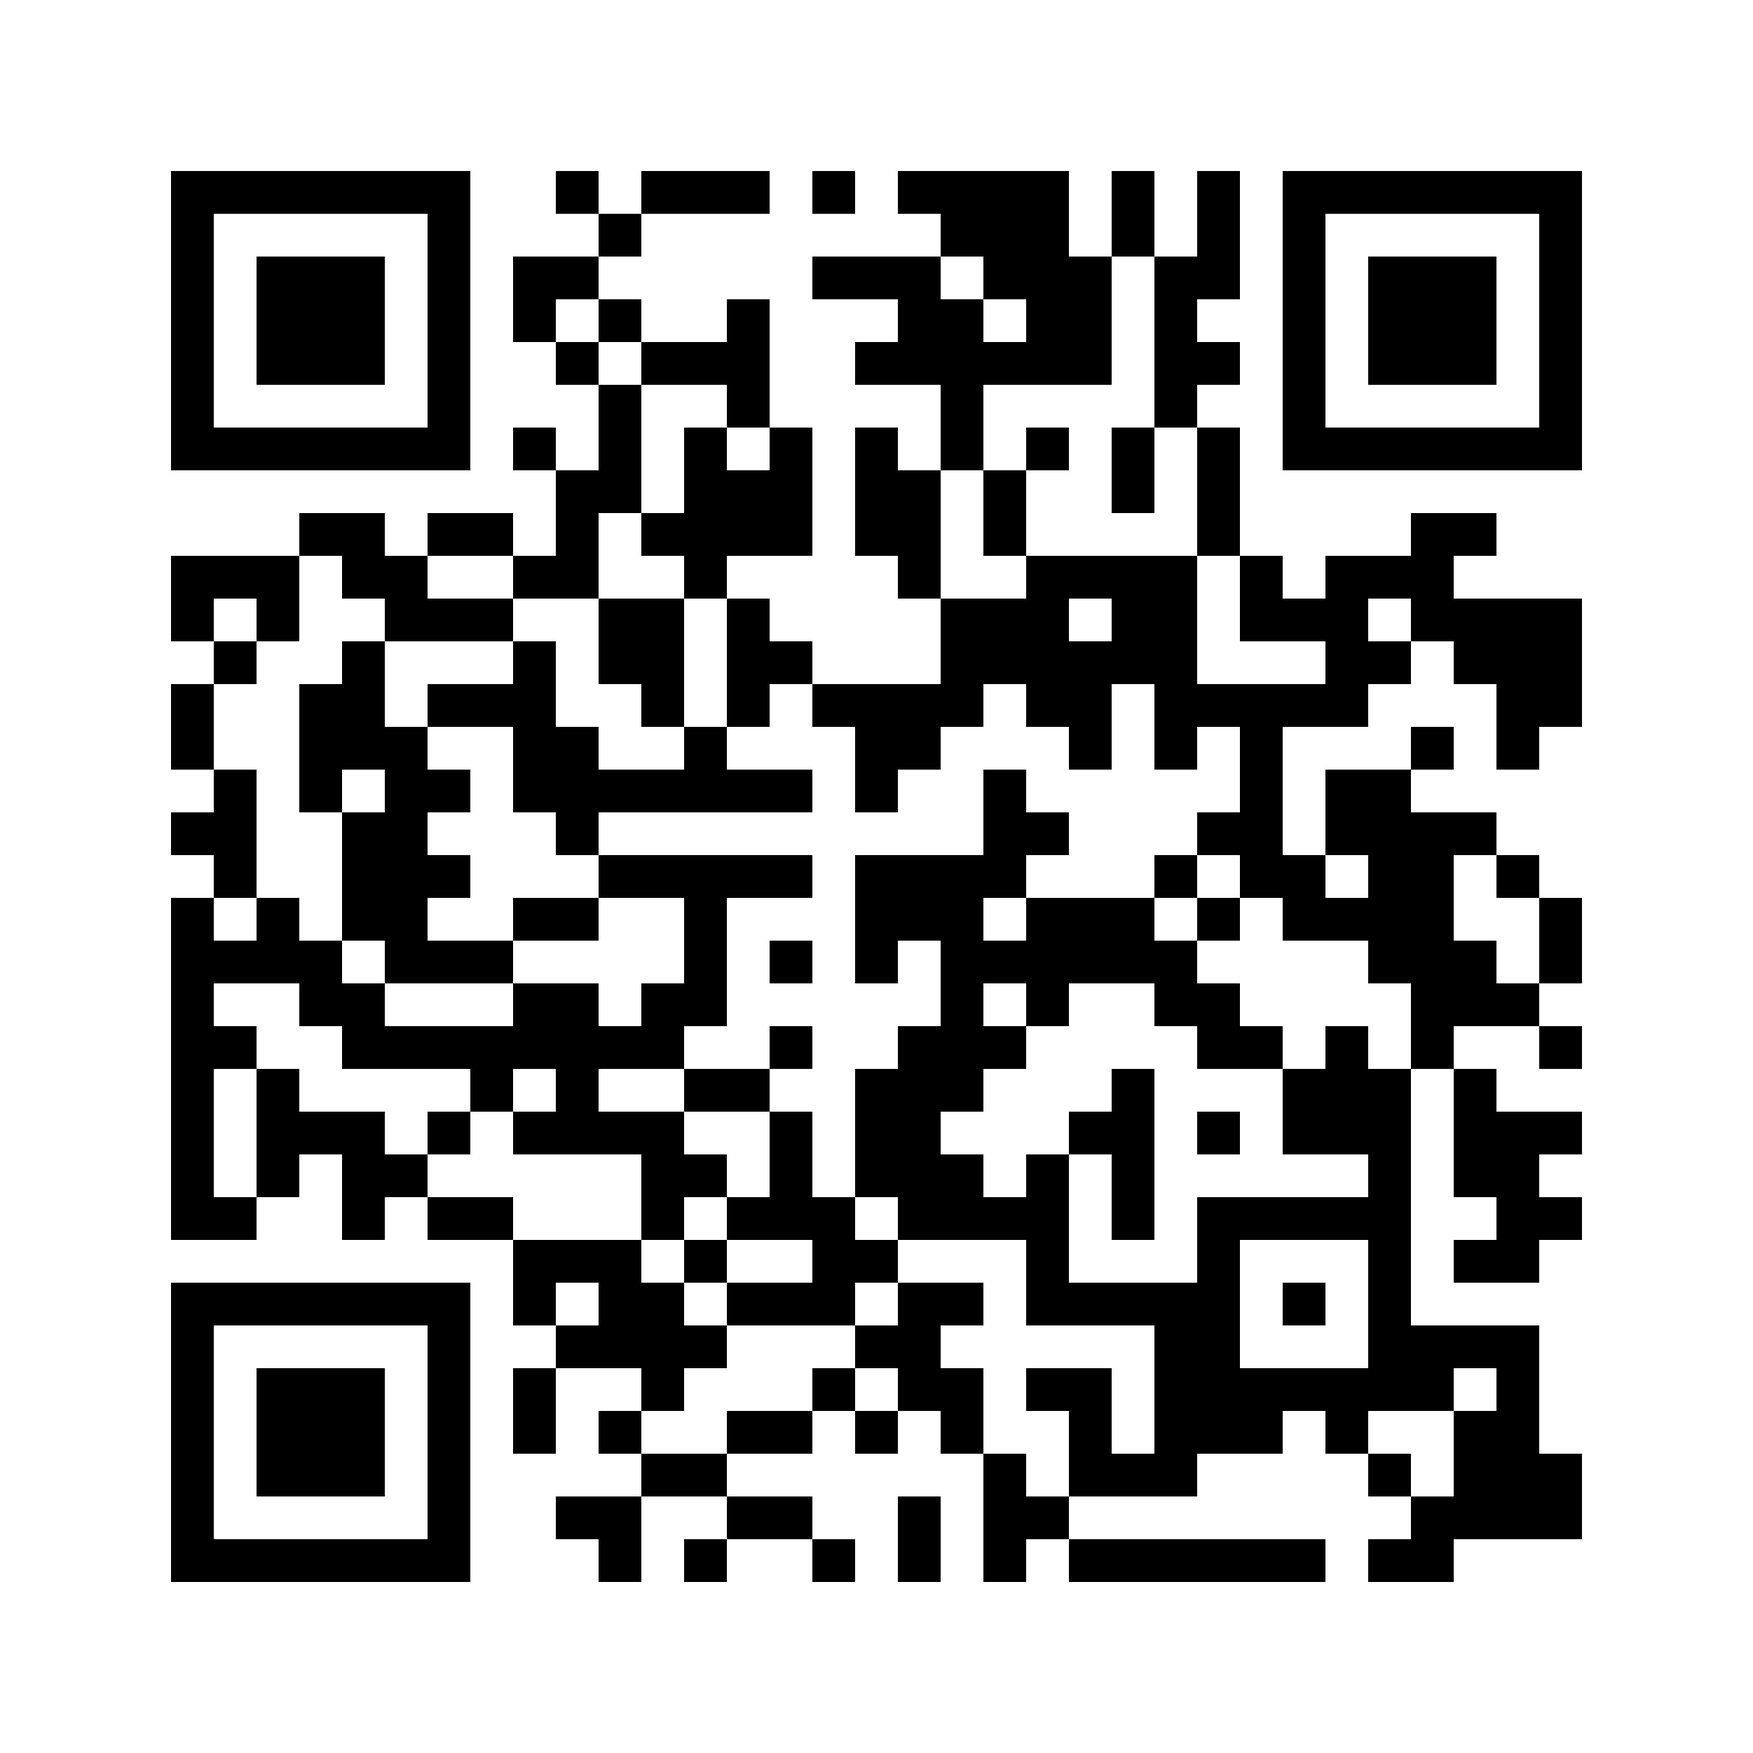
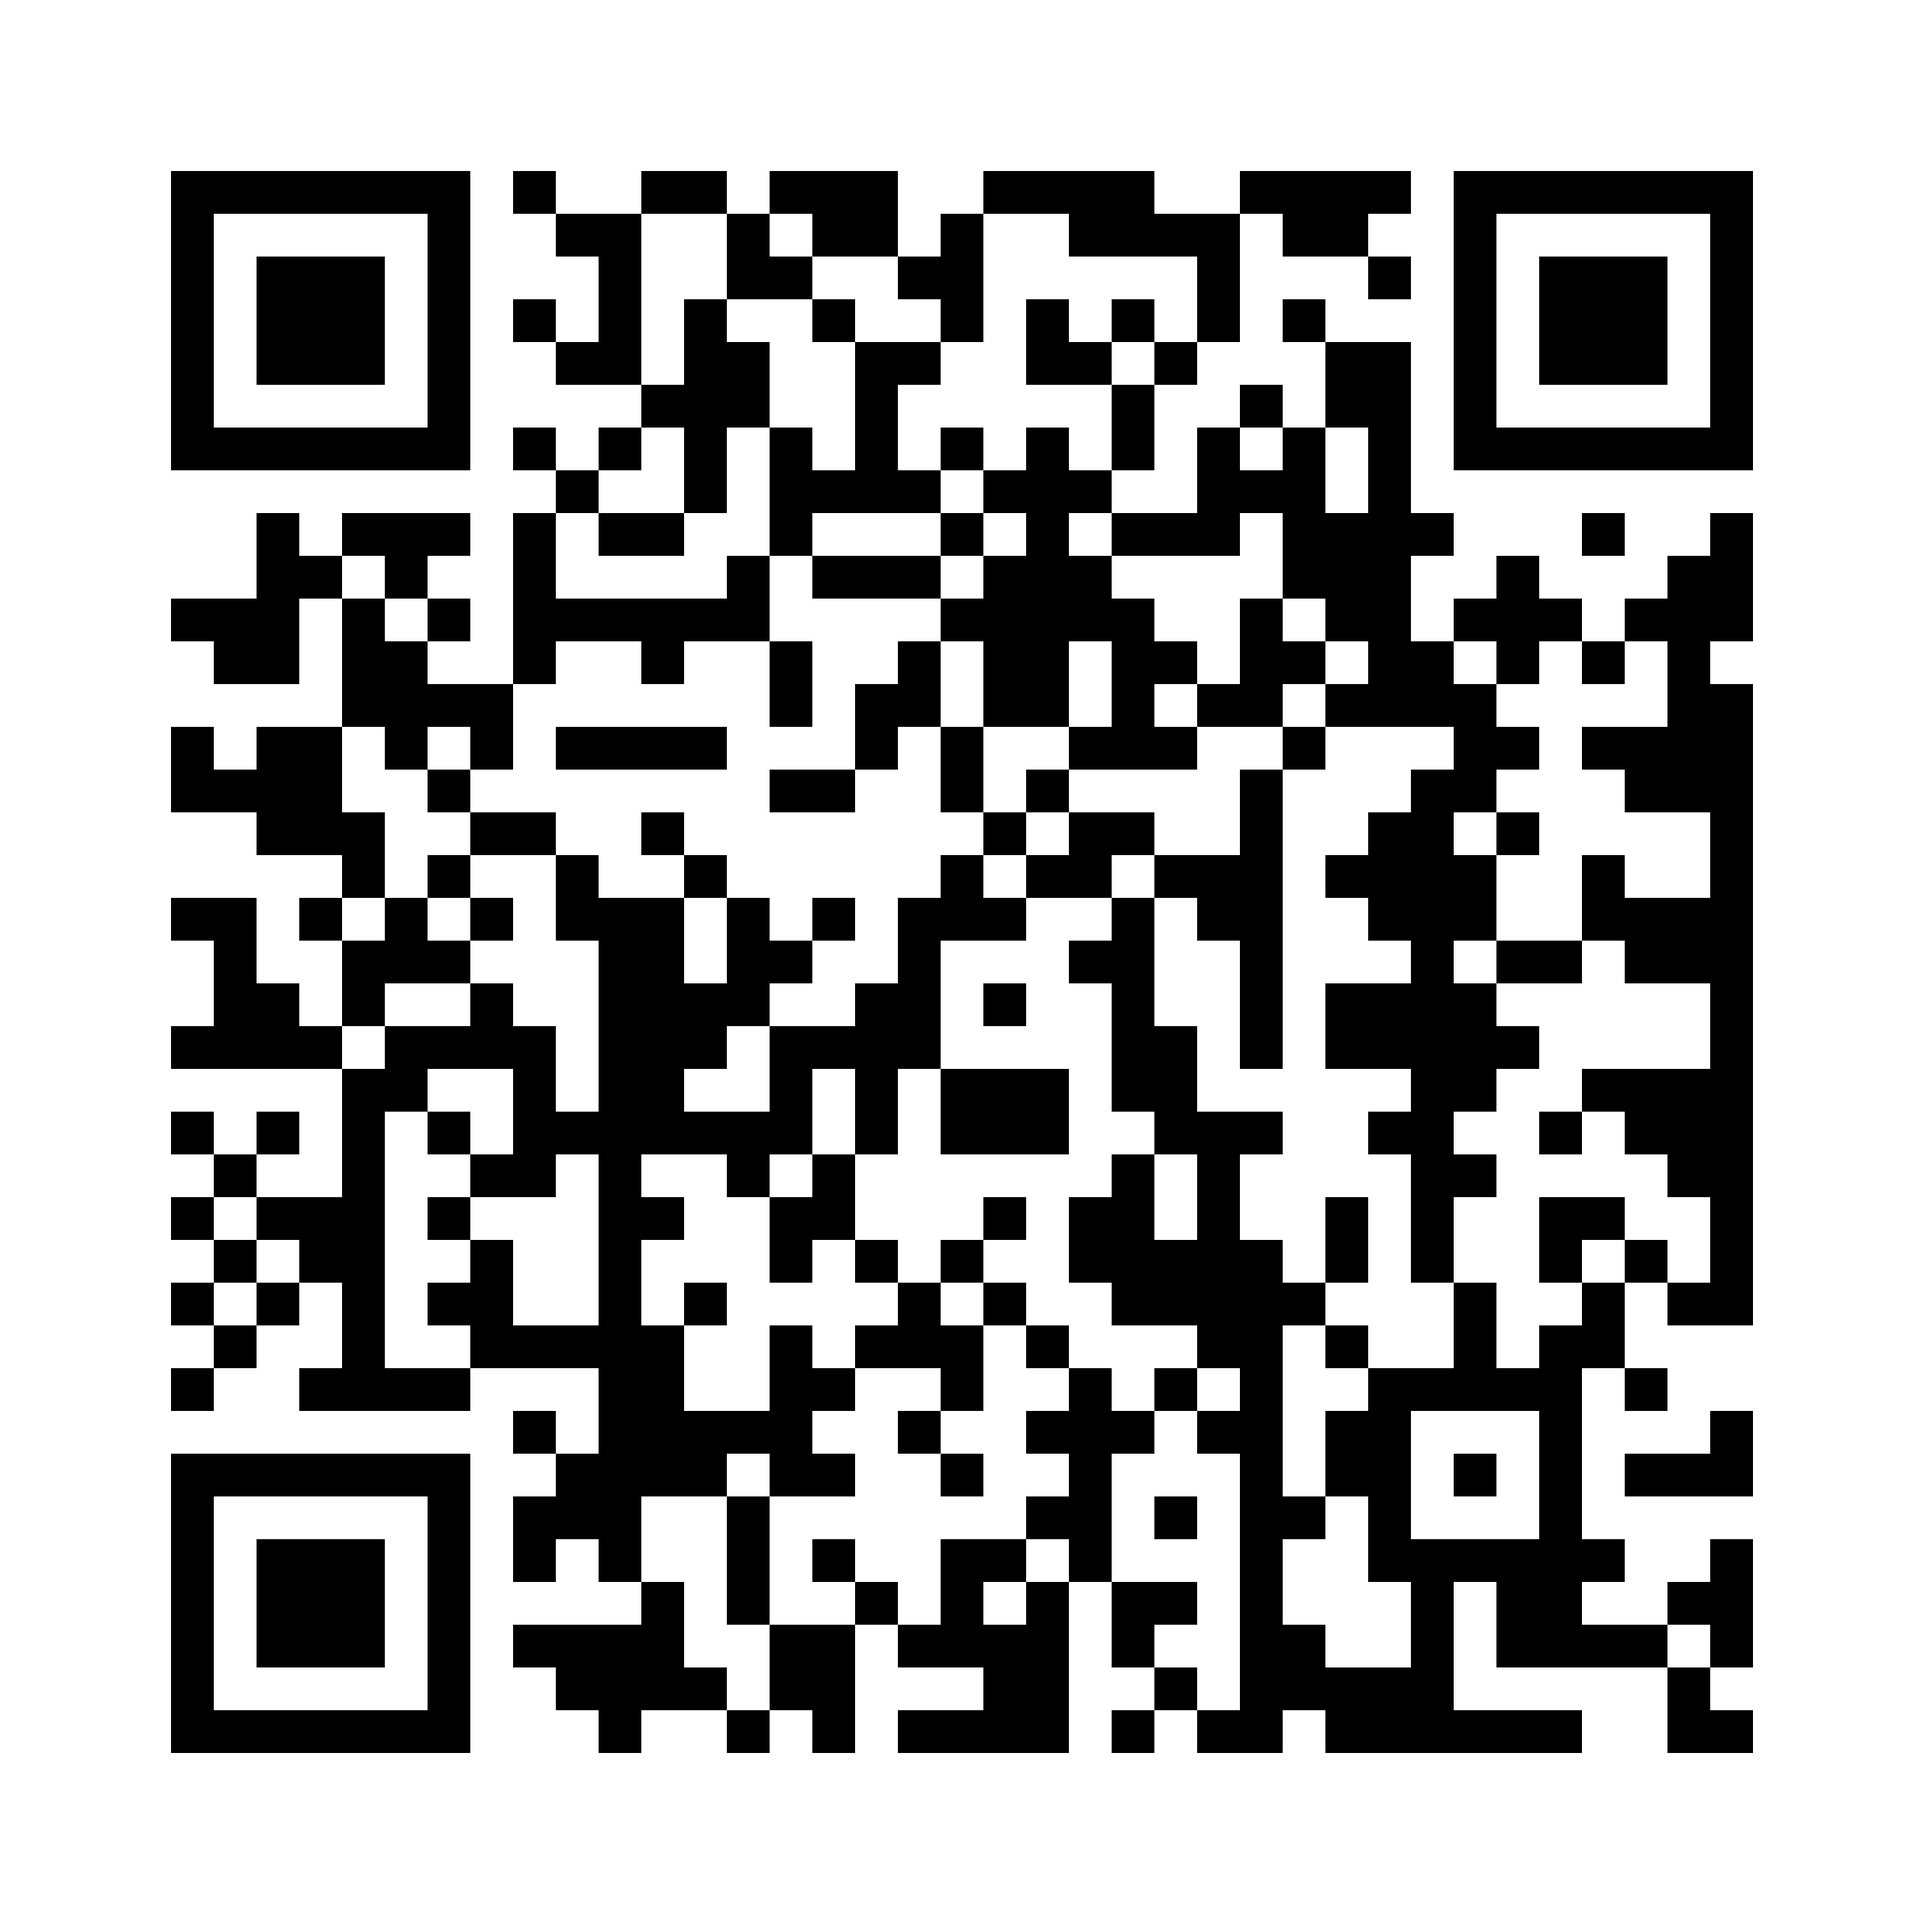
Use default GitHub Pages URL instead of custom domain
Remove CNAME and regenerate the QR code to point at
https://rasheedamh.github.io/vcard/.

Claude-Session: https://claude.ai/code/session_014KMR9erYbBn2jVn88gtQHS

diff --git a/vcard/README.md b/vcard/README.md
@@ -1,27 +1,19 @@
 # Digital business card
 
-Static vCard hosted on GitHub Pages at **https://card.amhalrasheed.net/**.
+Static vCard hosted on GitHub Pages at **https://rasheedamh.github.io/vcard/**.
 
 | File | Purpose |
 | --- | --- |
 | `contact.vcf` | The vCard (fill in the phone number). CRLF line endings, vCard 3.0. |
 | `index.html` | Landing page. Auto-navigates to `contact.vcf` and shows an "Add to Contacts" button as fallback. |
-| `CNAME` | Custom domain for GitHub Pages. |
 | `.nojekyll` | Disables Jekyll processing. |
-| `qr-card.png` | 2460 x 2460 px, 600 dpi, error-correction level H. Encodes `https://card.amhalrasheed.net/`. |
+| `qr-card.png` | 2460 x 2460 px, 600 dpi, error-correction level H. Encodes `https://rasheedamh.github.io/vcard/`. |
 
-## One-time setup
+## Setup
 
 1. Push these files to the `main` branch of the `vcard` repo.
 2. Repo **Settings → Pages**: Source "Deploy from a branch", branch `main`, folder `/ (root)`.
-3. At the DNS provider for `amhalrasheed.net`, add:
-
-   | Type | Host / Name | Value | TTL |
-   | --- | --- | --- | --- |
-   | CNAME | `card` | `rasheedamh.github.io` | 3600 (or Auto) |
-
-   The `CNAME` file in the repo pre-fills the custom domain, so **Settings → Pages → Custom domain** should already show `card.amhalrasheed.net`. If it does not, type it in and Save.
-4. Wait for the DNS check to pass, then tick **Enforce HTTPS** (the checkbox becomes available a few minutes after the certificate is issued).
+3. The site is live at https://rasheedamh.github.io/vcard/ about a minute later.
 
 ## How the iOS "Add Contact" sheet is triggered
 
@@ -29,13 +21,13 @@ Whether iOS Safari shows the contact sheet or just downloads the file depends on
 `Content-Type` GitHub Pages sends for `contact.vcf`. Check it with:
 
 ```
-curl -sI https://card.amhalrasheed.net/contact.vcf | grep -i content-type
+curl -sI https://rasheedamh.github.io/vcard/contact.vcf | grep -i content-type
 ```
 
 * `text/vcard` (expected from GitHub Pages): both the auto-redirect in `index.html` and the
   button open the native contact preview with "Create New Contact" / "Add to Existing Contact".
-* Anything else (e.g. `application/octet-stream`): Safari shows a download prompt; the contact
-  sheet appears once the user taps the downloaded file. Nothing in the repo can change this,
-  since GitHub Pages does not allow custom headers.
+* Anything else: Safari shows a download prompt; the contact sheet appears once the user taps
+  the downloaded file. GitHub Pages does not allow custom headers, so this cannot be changed
+  from the repo.
 
-Open `https://card.amhalrasheed.net/?stay` to view the landing page without the auto-redirect.
+Open `https://rasheedamh.github.io/vcard/?stay` to view the landing page without the auto-redirect.
